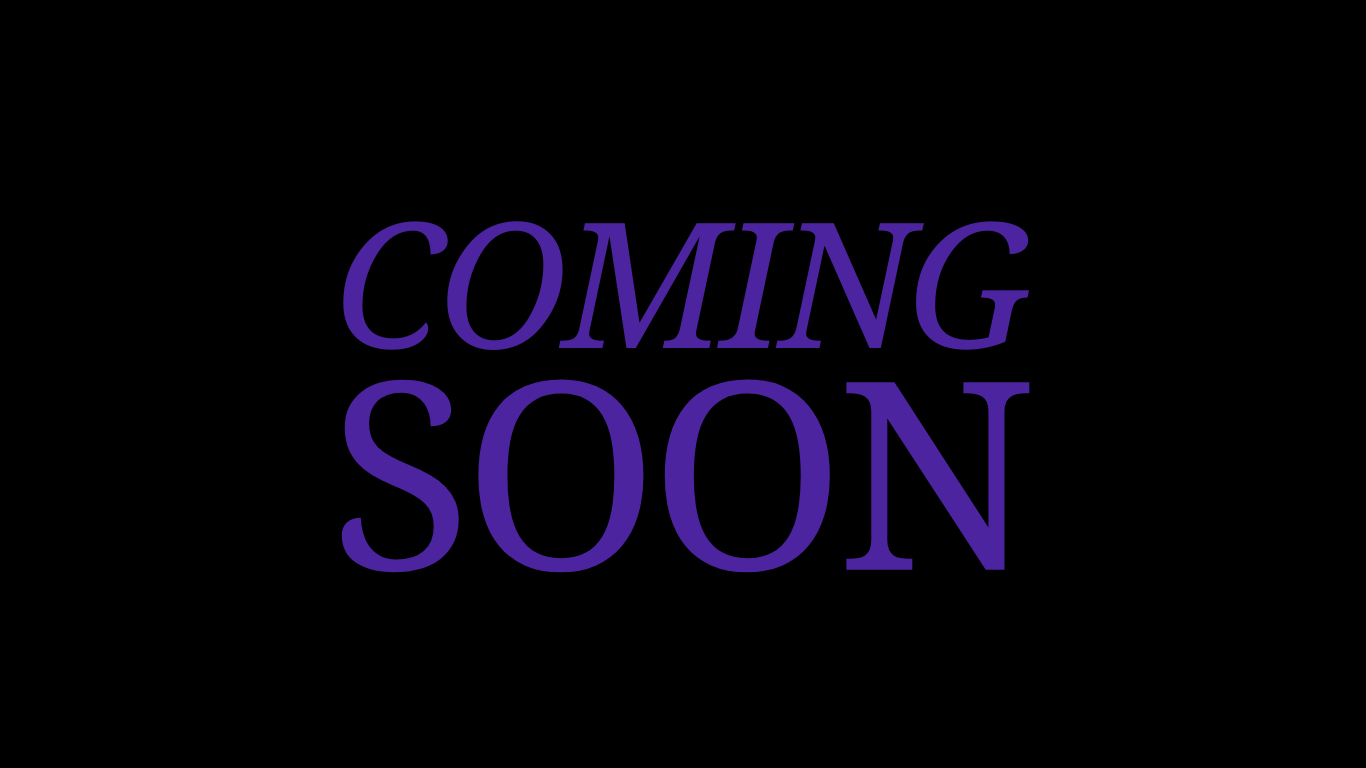
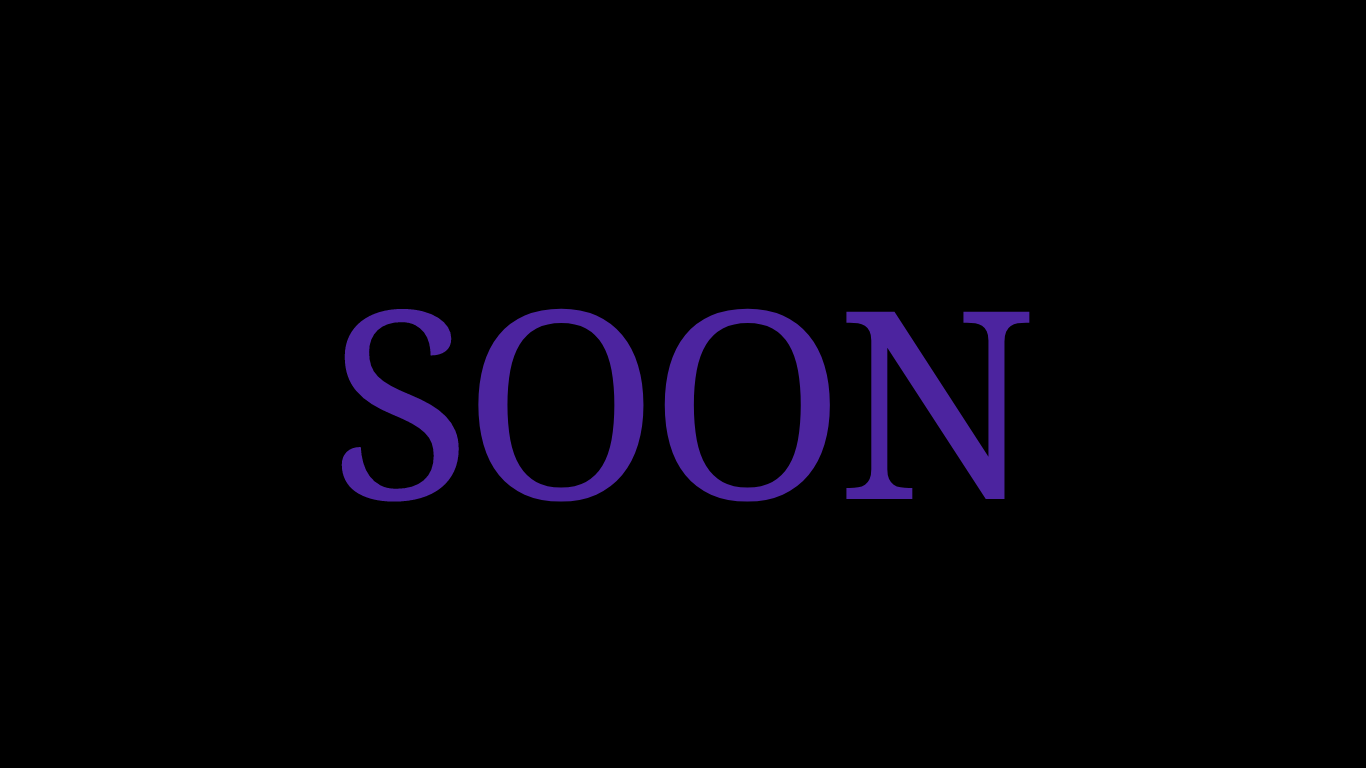
images

Changed region(s): [[0.246, 0.2812, 0.7687, 0.75]]

diff --git a/src/database.js b/src/database.js
@@ -71,7 +71,7 @@ export const websiteData = {
         image: "/images/lens.png",
       },
       {
-        name: "Medium.xyz",
+        name: "Medium",
         url: "https://medium.com/pooltogether",
         image: "/images/medium.png",
       },
@@ -91,7 +91,7 @@ export const websiteData = {
         image: "/images/discord.png",
       },
       {
-        name: "X.com",
+        name: "X",
         url: "https://x.com/pooltogether_",
         image: "/images/x.png",
       },
@@ -101,7 +101,7 @@ export const websiteData = {
         image: "/images/forum.png",
       },
       {
-        name: "Tally Governance Voting",
+        name: "Tally Gov Voting",
         url: "https://www.tally.xyz/gov/pooltogether",
         image: "/images/tally.png",
         code: "https://github.com/withtally/",
@@ -121,6 +121,13 @@ export const websiteData = {
         url: "https://cabana.fi/",
         image: "/images/cabana.png",
         code: "https://github.com/GenerationSoftware/pooltogether-client-monorepo",
+      },
+    ],
+    "Contract-Addresses": [
+      {
+        name: "Soon",
+        url: "https://recap.companies.tools/",
+        image: "/images/comingsoon.png",
       },
     ],
     "prize-pools": [
@@ -179,6 +186,13 @@ export const websiteData = {
       },
     ],
     "Games": [
+      {
+        name: "Soon",
+        url: "https://recap.companies.tools/",
+        image: "/images/comingsoon.png",
+      },
+    ],
+    "Integrations": [
       {
         name: "Soon",
         url: "https://recap.companies.tools/",
